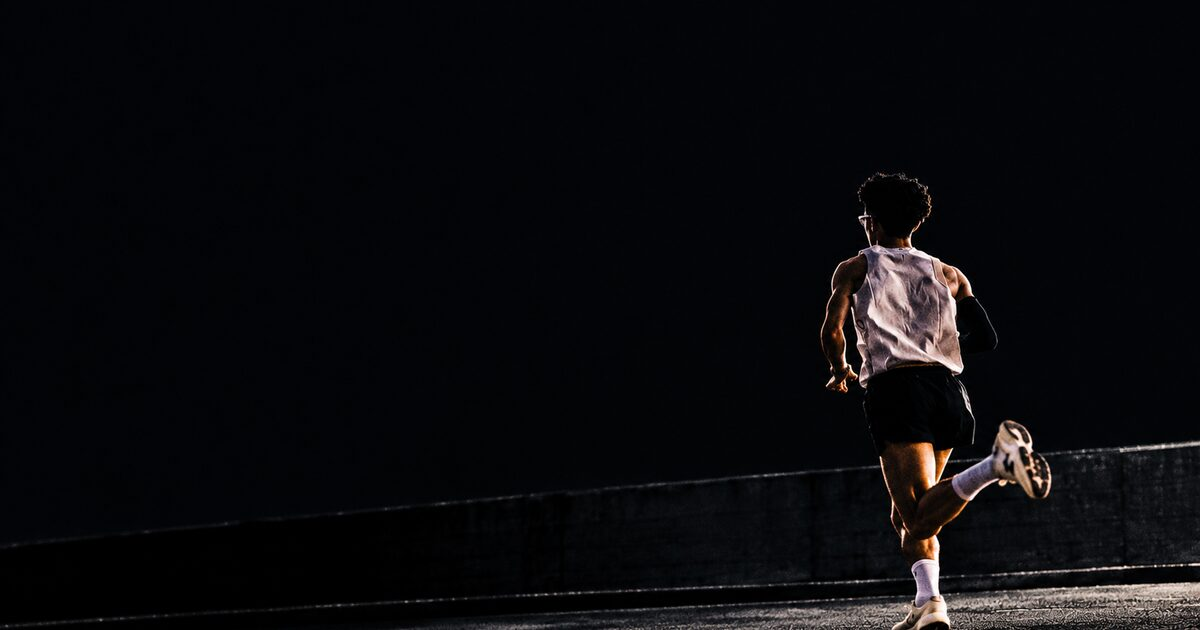
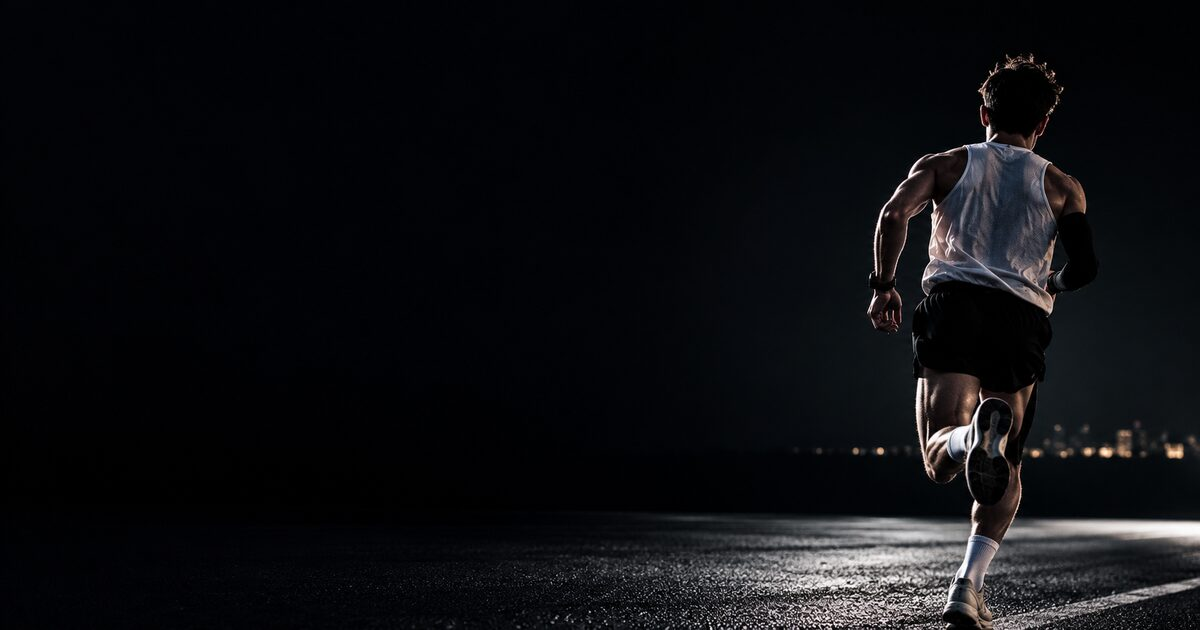
Visuels : photo sur connexion et inscription, bandeau de l'invitation, chaussures pendant la génération du plan, CTA final de la landing, nouvelle image de partage
Claude-Session: https://claude.ai/code/session_015hFY7EzfLoqPN7JTfw35Cy

diff --git a/src/platform/pages/AuthVisual.tsx b/src/platform/pages/AuthVisual.tsx
@@ -1,0 +1,17 @@
+import type { ReactNode } from 'react'
+
+/** Connexion et inscription : le formulaire à droite, une photo de course à gauche sur desktop. */
+export function AuthSplit({ children }: { children: ReactNode }) {
+  return (
+    <div className="min-h-dvh lg:grid lg:grid-cols-[minmax(0,1fr)_minmax(0,1fr)]">
+      <aside aria-hidden="true" className="relative hidden overflow-hidden border-r lg:block">
+        <img src="/visuals/login.webp" alt="" className="absolute inset-0 size-full object-cover object-[50%_25%] opacity-80" />
+        <div className="absolute inset-0 bg-linear-to-t from-background via-background/20 to-transparent" />
+        <p className="absolute bottom-10 left-10 max-w-sm font-heading font-medium text-3xl leading-tight tracking-tight">
+          Ton plan, écrit par des agents, synchronisé avec ta montre.
+        </p>
+      </aside>
+      <div className="min-w-0">{children}</div>
+    </div>
+  )
+}

diff --git a/src/platform/pages/LandingPage.tsx b/src/platform/pages/LandingPage.tsx
@@ -177,7 +177,11 @@ export function LandingPage() {
           </div>
         </Section>
 
-        <section className="flex flex-col items-center gap-4 px-4 py-20 text-center">
+        <section className="relative isolate flex flex-col items-center gap-4 px-4 py-28 text-center md:py-36">
+          <div aria-hidden="true" className="pointer-events-none absolute inset-y-0 left-1/2 -z-1 w-screen -translate-x-1/2 overflow-hidden">
+            <img src="/visuals/cta.webp" alt="" loading="lazy" className="size-full object-cover object-[50%_60%] opacity-70" />
+            <div className="absolute inset-0 bg-linear-to-b from-background via-transparent to-background" />
+          </div>
           <h2 className="font-heading max-w-xl text-balance font-semibold text-2xl tracking-tight md:text-4xl">Two minutes of questions. A plan all the way to race day.</h2>
           <Button asChild size="lg">
             <a href={appHref('/onboarding')}>

diff --git a/src/platform/onboarding/CompleteOnboarding.tsx b/src/platform/onboarding/CompleteOnboarding.tsx
@@ -1668,6 +1668,10 @@ function GenerateStep({ answers, preview, onDone }: { answers: CompleteAnswers; 
 
   return (
     <div className="flex flex-col gap-8">
+      <div className="relative -mx-5 -mt-5 h-48 overflow-hidden rounded-t-[26px] sm:h-60">
+        <img src="/visuals/shoes.webp" alt="" className="absolute inset-0 size-full object-cover object-[60%_55%]" />
+        <div className="absolute inset-0 bg-linear-to-t from-card to-transparent" />
+      </div>
       <Progress value={Math.min(current, BUILD.length)} max={BUILD.length} label={finished ? 'Terminé' : BUILD[Math.min(current, BUILD.length - 1)].label} showValue />
       <Stepper steps={BUILD} current={current} orientation="vertical" details="current" label="Génération du plan" completeLabel="Plan prêt" />
       {!finished && <TextShimmer as="p" className="text-muted-foreground text-sm">{`${BUILD[Math.min(current, BUILD.length - 1)].label}…`}</TextShimmer>}

diff --git a/src/platform/invite/InviteGate.tsx b/src/platform/invite/InviteGate.tsx
@@ -86,6 +86,11 @@ export function InviteGate({ initialCode, referrer, onValid }: { initialCode: st
 
   return (
     <div className="flex flex-col gap-6">
+      <div className="relative h-44 overflow-hidden rounded-[26px] border sm:h-56">
+        <img src="/visuals/invite.webp" alt="" className="absolute inset-0 size-full object-cover object-[50%_40%]" />
+        <div className="absolute inset-0 bg-linear-to-t from-background/90 via-background/10 to-transparent" />
+        <p className="absolute bottom-4 left-5 font-medium text-lg">On court mieux à plusieurs.</p>
+      </div>
       <div className="flex items-start gap-3">
         <CoachAvatar className="size-11" />
         <div className="flex flex-col gap-2">

diff --git a/src/platform/pages/SignupPage.tsx b/src/platform/pages/SignupPage.tsx
@@ -6,6 +6,7 @@ import { Logo } from '@/components/logo'
 import { api } from '../api'
 import { BRAND, siteHref } from '../brand'
 import { ONBOARDING_KEY, SIGNUP_PREFILL_KEY } from './OnboardingRunPage'
+import { AuthSplit } from './AuthVisual'
 
 /** Bloc Arc signup-form, branché sur /api/platform/auth/signup. */
 export function SignupPage() {
@@ -40,6 +41,7 @@ export function SignupPage() {
   }
 
   return (
+    <AuthSplit>
     <div className="flex min-h-dvh flex-col items-center gap-8 px-4 py-8">
       <a href={siteHref()} aria-label={`Accueil ${BRAND.name}`}>
         <Logo />
@@ -56,5 +58,6 @@ export function SignupPage() {
         }
       />
     </div>
+    </AuthSplit>
   )
 }

diff --git a/src/platform/pages/LoginPage.tsx b/src/platform/pages/LoginPage.tsx
@@ -4,6 +4,7 @@ import { LoginCentered } from '@/components/arc/blocks/login-centered/login-cent
 import { LogoIcon } from '@/components/logo'
 import { api, type Me } from '../api'
 import { BRAND } from '../brand'
+import { AuthSplit } from './AuthVisual'
 
 /** Bloc Arc login-centered, en mode e-mail + mot de passe. */
 export function LoginPage() {
@@ -21,6 +22,7 @@ export function LoginPage() {
   }
 
   return (
+    <AuthSplit>
     <LoginCentered
       fullScreen
       brand={BRAND.name}
@@ -31,5 +33,6 @@ export function LoginPage() {
       termsHref="#conditions"
       privacyHref="#confidentialite"
     />
+    </AuthSplit>
   )
 }
